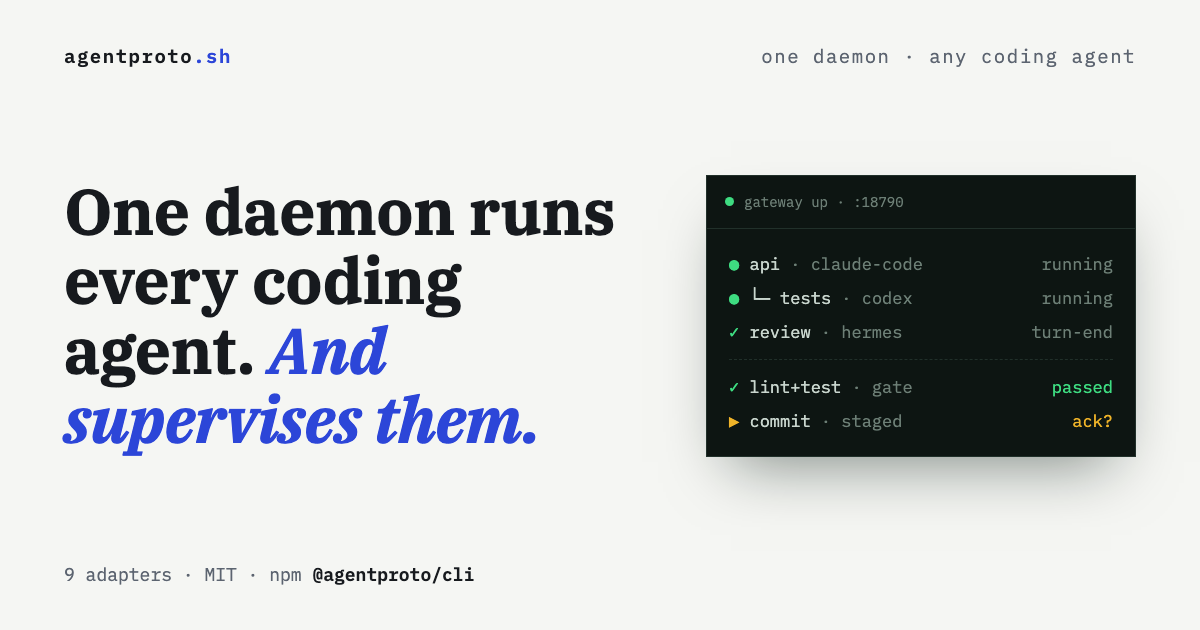
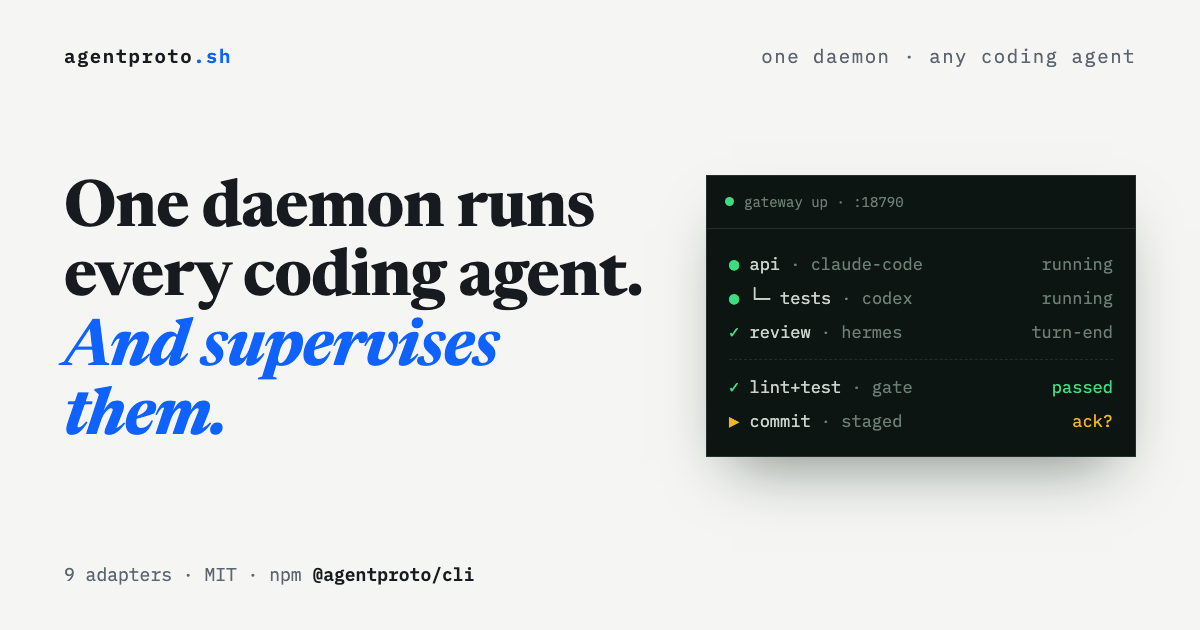
Design: Newsreader display + IBM Blue accent (#4)
- Display face: IBM Plex Serif → Newsreader (700 + italic), exposed as
  --font-display; body/data stay IBM Plex Sans/Mono
- Accent: ultramarine #2C46D8 → IBM Blue #0F62FE (light) / #4589FF
  (dark) — the lightened ultramarine read periwinkle/violet in dark
  mode, squarely in AI-gradient territory
- OG image re-rendered with the new face and accent
- CI brand-sync check now prefers the sibling's same-named branch
  (coordinated two-repo changes) and is warning-only on main pushes

Changed region(s): [[0.0308, 0.2714, 0.555, 0.7238]]

diff --git a/src/app/brand.css b/src/app/brand.css
@@ -5,8 +5,8 @@
    src/app/brand.css. CI diffs this file against the sibling repo's
    main branch — edit BOTH repos or the check fails.
 
-   The page is an engineering document: cool paper, ink, ultramarine
-   accent, IBM Plex serif display. The dark terminal panels are the
+   The page is an engineering document: cool paper, ink, azure
+   accent (IBM Blue), Newsreader display. The dark terminal panels are the
    only place the phosphor green / amber status colors appear — the
    paper ↔ phosphor contrast IS the brand ("the spec is a document,
    the daemon is alive"). Terminal tokens are theme-invariant.
@@ -15,7 +15,7 @@
 @theme inline {
   --font-sans: var(--font-plex-sans), system-ui, sans-serif;
   --font-mono: var(--font-plex-mono), ui-monospace, "SF Mono", Menlo, monospace;
-  --font-serif: var(--font-plex-serif), Charter, Georgia, serif;
+  --font-serif: var(--font-display), Charter, Georgia, serif;
 }
 
 :root {
@@ -28,13 +28,13 @@
   --color-fd-card: #ffffff;
   --color-fd-card-foreground: #171a1e;
   --color-fd-border: #dde0da;
-  --color-fd-primary: #2c46d8;
+  --color-fd-primary: #0f62fe;
   --color-fd-primary-foreground: #ffffff;
   --color-fd-secondary: #e9ebe6;
   --color-fd-secondary-foreground: #171a1e;
-  --color-fd-accent: #e7eaf9;
-  --color-fd-accent-foreground: #1b2b90;
-  --color-fd-ring: #2c46d8;
+  --color-fd-accent: #e0eaff;
+  --color-fd-accent-foreground: #0043ce;
+  --color-fd-ring: #0f62fe;
 
   /* runtime island — theme-invariant */
   --term-bg: #0d1512;
@@ -55,13 +55,13 @@
   --color-fd-card: #16191d;
   --color-fd-card-foreground: #e8eaed;
   --color-fd-border: #272c33;
-  --color-fd-primary: #8296ff;
-  --color-fd-primary-foreground: #10141f;
+  --color-fd-primary: #4589ff;
+  --color-fd-primary-foreground: #0c1420;
   --color-fd-secondary: #1b1f24;
   --color-fd-secondary-foreground: #e8eaed;
-  --color-fd-accent: #232a3d;
-  --color-fd-accent-foreground: #c9d2ff;
-  --color-fd-ring: #8296ff;
+  --color-fd-accent: #1c2b47;
+  --color-fd-accent-foreground: #a6c8ff;
+  --color-fd-ring: #4589ff;
 }
 
 /* ── status blink (running dots, hero cursor) ──────────────────── */

diff --git a/src/app/layout.tsx b/src/app/layout.tsx
@@ -1,5 +1,5 @@
 import type { Metadata } from "next"
-import { IBM_Plex_Mono, IBM_Plex_Sans, IBM_Plex_Serif } from "next/font/google"
+import { IBM_Plex_Mono, IBM_Plex_Sans, Newsreader } from "next/font/google"
 import { RootProvider } from "fumadocs-ui/provider/next"
 import { BrandRibbon } from "@/components/brand-ribbon"
 import { SiteFooter } from "@/components/site-footer"
@@ -15,11 +15,11 @@ const plexMono = IBM_Plex_Mono({
   weight: ["400", "600"],
   variable: "--font-plex-mono",
 })
-const plexSerif = IBM_Plex_Serif({
+const display = Newsreader({
   subsets: ["latin"],
   weight: ["600", "700"],
   style: ["normal", "italic"],
-  variable: "--font-plex-serif",
+  variable: "--font-display",
 })
 
 export const metadata: Metadata = {
@@ -49,7 +49,7 @@ export default function RootLayout({
     <html
       lang="en"
       suppressHydrationWarning
-      className={`${plexSans.variable} ${plexMono.variable} ${plexSerif.variable}`}
+      className={`${plexSans.variable} ${plexMono.variable} ${display.variable}`}
     >
       <body className="flex flex-col min-h-screen">
         <RootProvider>
